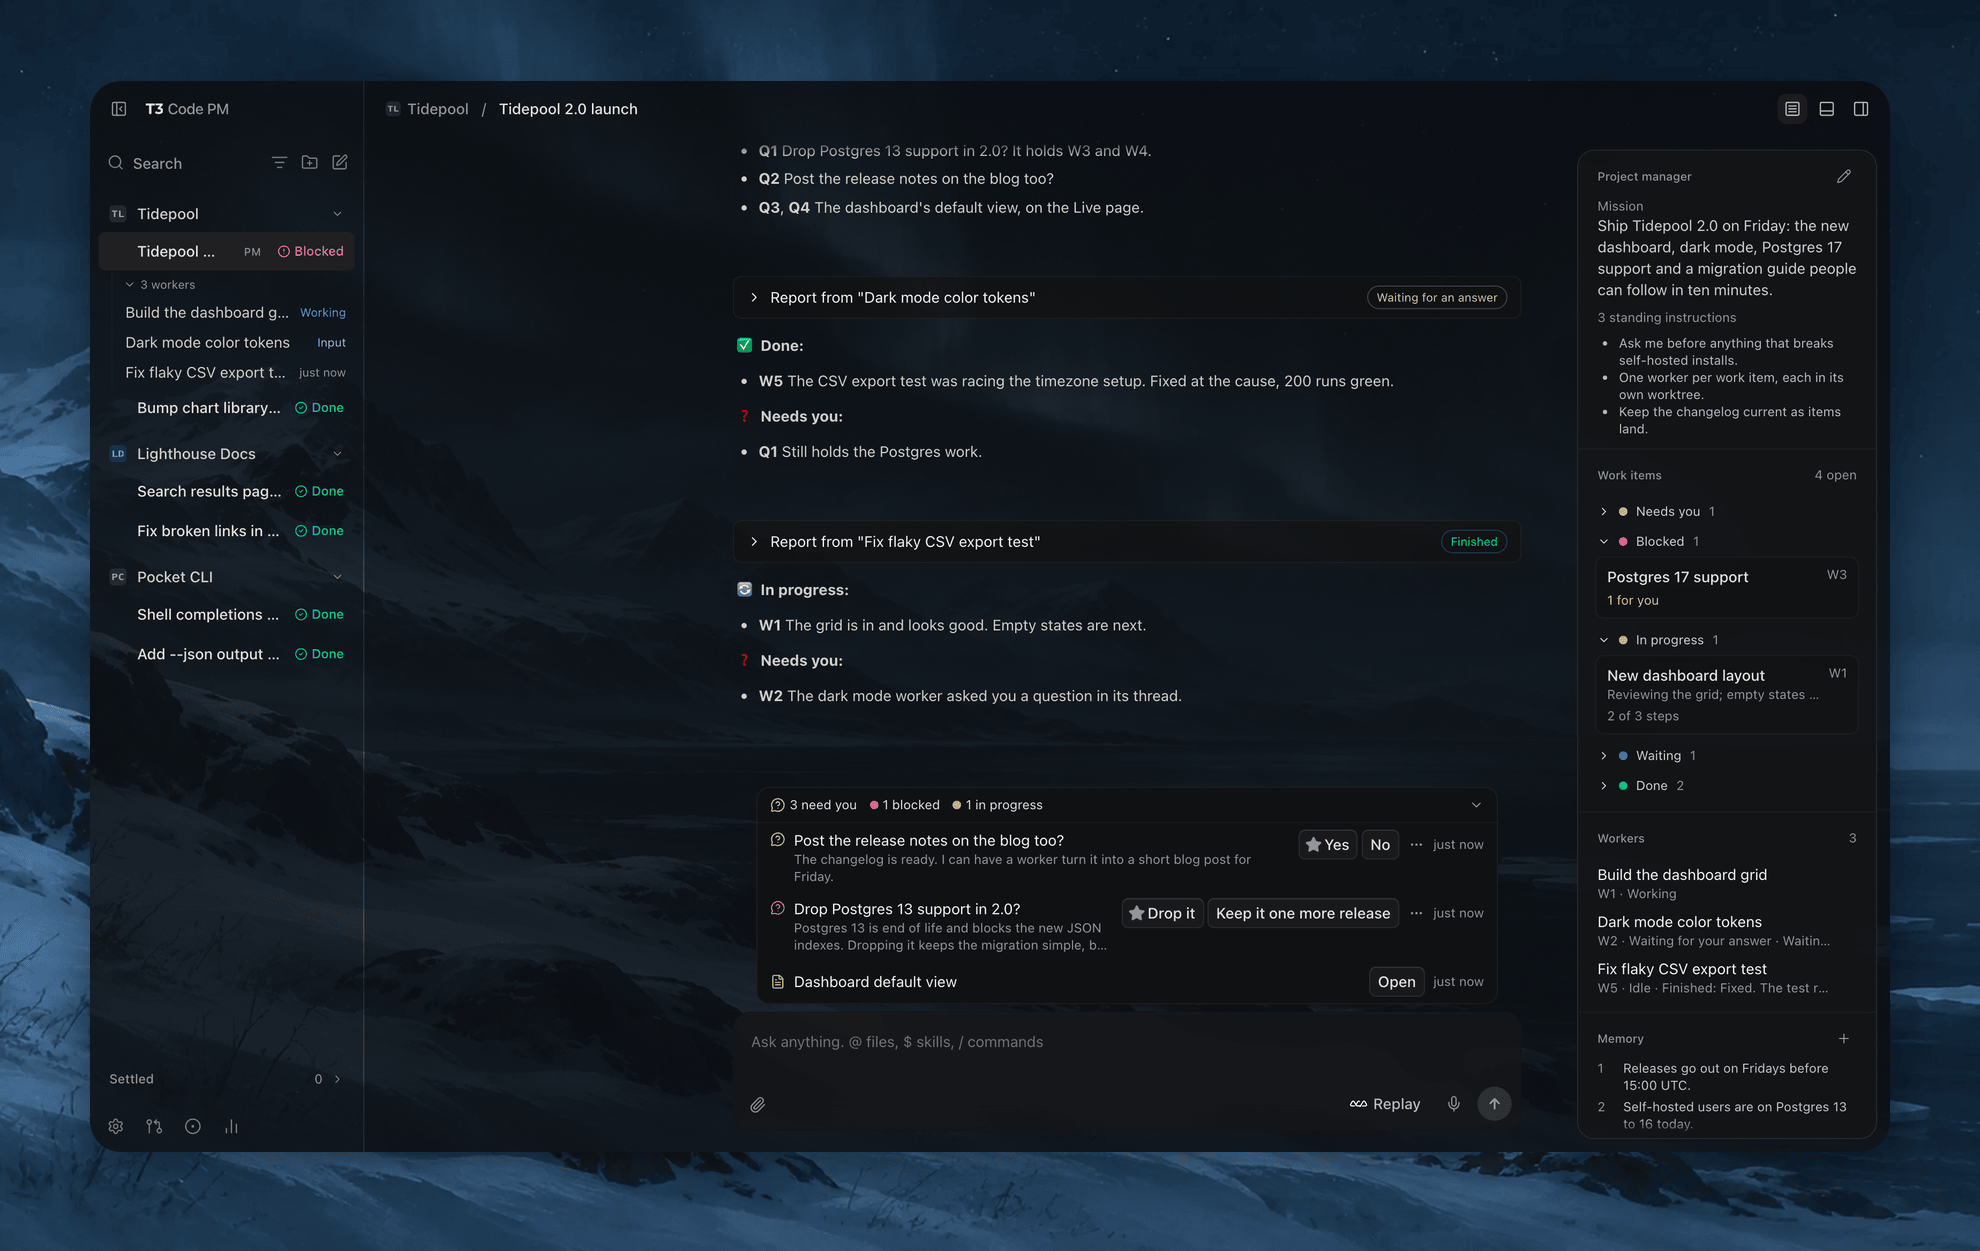
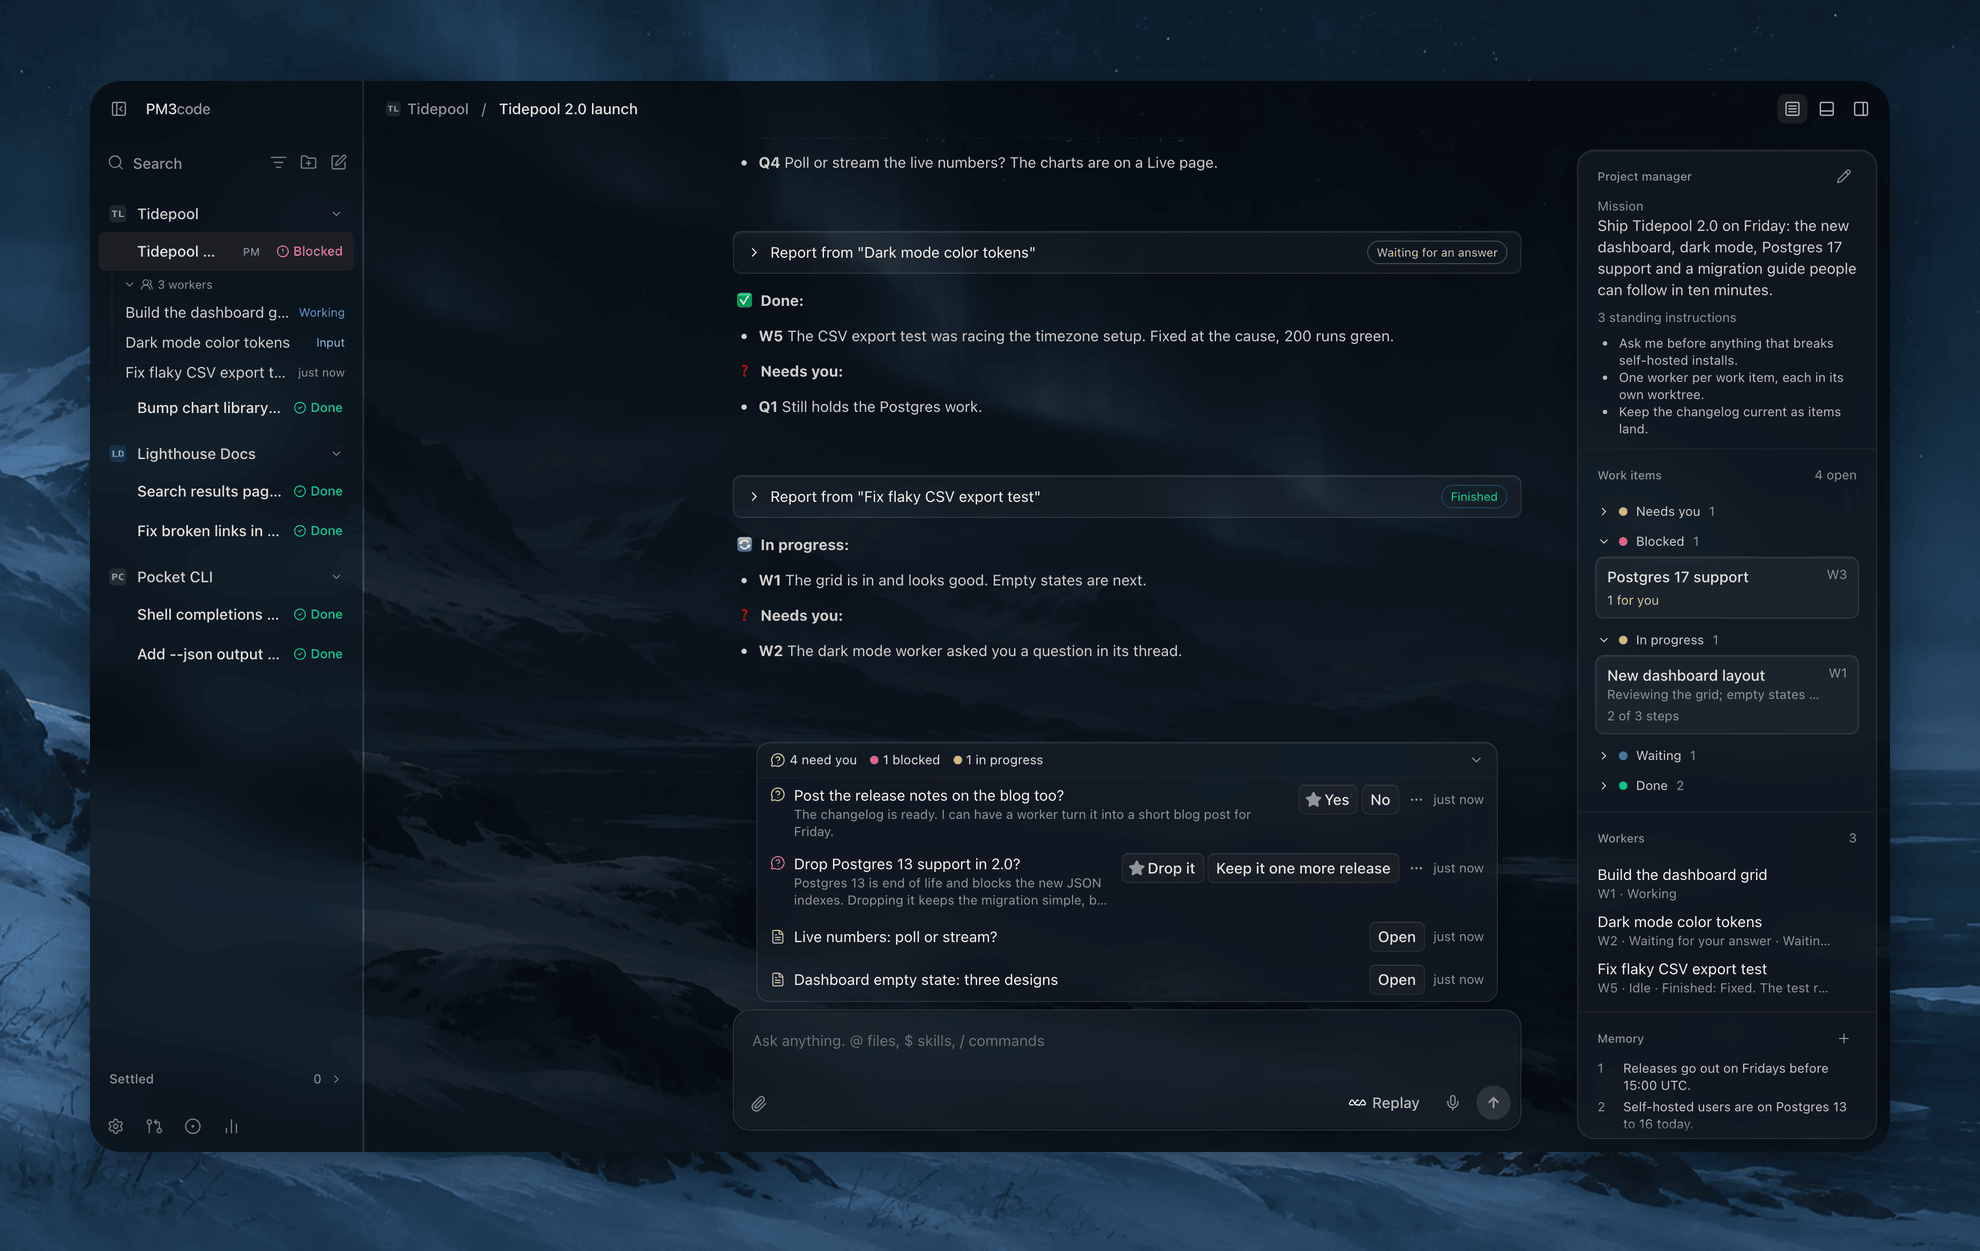
docs(pm): glass screenshots, two new Live pages, and how to apply the theme
Every README screenshot is retaken in the PM3code Ghostex custom CSS theme,
scrolled to the bottom. The one Live page shot becomes two: three designs
for the dashboard's empty state side by side, and charts that weigh polling
against streaming, each with its question below. The README says how to
apply docs/pm/theme/pm3code-ghostex.css, and the CSS names PM3code.

diff --git a/docs/pm/theme/pm3code-ghostex.css b/docs/pm/theme/pm3code-ghostex.css
@@ -1,7 +1,7 @@
 /*
  * PM3code Ghostex: near-black glass over Ghostex's Polar Night art.
  *
- * Apply it in T3 Code (web or desktop): Settings > Appearance > Create theme, open Custom CSS,
+ * Apply it in PM3code (web or desktop): Settings > Appearance > Create theme, open Custom CSS,
  * paste this whole file, save, then pick the theme. Use it as a dark theme.
  *
  * The art is Ghostex's "Polar Night" (https://github.com/maddada/Ghostex, MIT, see

diff --git a/README.md b/README.md
@@ -38,13 +38,17 @@ Once you run more than a couple of agent threads, you become the dispatcher. You
 **A dock of questions.** The PM's questions (Q1, Q2, ...) sit above the chat box. Pick an answer in one click (the PM's pick has a star), or snooze, dismiss, or copy a question's tag.
 
 <p align="center">
-  <img src="./docs/pm/screenshots/dock.png" width="80%" alt="The dock above the chat box with two questions and a Live page, each with one-click answers" />
+  <img src="./docs/pm/screenshots/dock.png" width="80%" alt="The dock above the chat box with two questions with one-click answers and two Live pages" />
 </p>
 
 **Live pages.** When a question needs more than a button, the PM publishes a page that opens in a pop-up window over the chat. Your choices go straight back to the PM.
 
 <p align="center">
-  <img src="./docs/pm/screenshots/live-page.png" width="100%" alt="A Live page pop-up asking which view the dashboard should open on, with a recommended choice" />
+  <img src="./docs/pm/screenshots/live-page-designs.png" width="100%" alt="A Live page comparing three designs for the dashboard's empty state side by side, each with a Pick button, and the question below them" />
+</p>
+
+<p align="center">
+  <img src="./docs/pm/screenshots/live-page-charts.png" width="100%" alt="A Live page with two charts comparing polling and streaming for the dashboard's live numbers, and a question with a recommended choice" />
 </p>
 
 **One sidebar.** A PM's row shows its status and counts, with its workers nested under it. Hover it for the mission and a summary.
@@ -67,6 +71,8 @@ Once you run more than a couple of agent threads, you become the dispatcher. You
 **Any agent.** The PM drives its work through T3's MCP tools, so it runs on any agent that gets them: Claude, Codex, Cursor, OpenCode, Pi, Muse Code and ACP agents. Workers can use any agent T3 Code supports.
 
 **One switch.** Settings, Project managers turns the whole feature off (on the phone: Settings, Environments, your environment, Project managers). PM threads then show as normal threads, and nothing is deleted.
+
+**The Ghostex look.** The screenshots use a theme of frosted glass over Ghostex's Polar Night art. It's one CSS file: in Settings, Appearance, choose **Create theme**, set it to Dark, open **Custom CSS**, paste [pm3code-ghostex.css](./docs/pm/theme/pm3code-ghostex.css), and create the theme. Web and desktop only.
 
 ## Install
 
